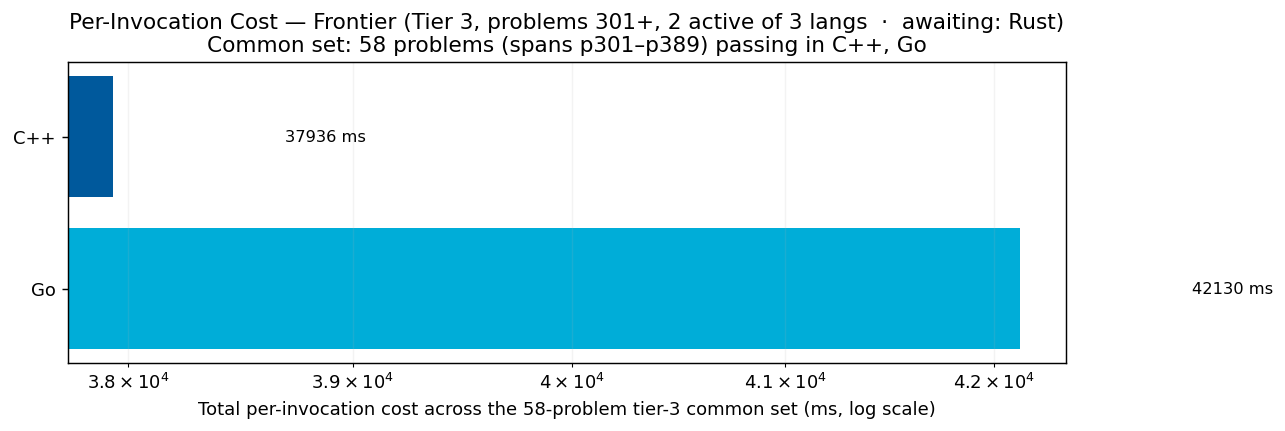
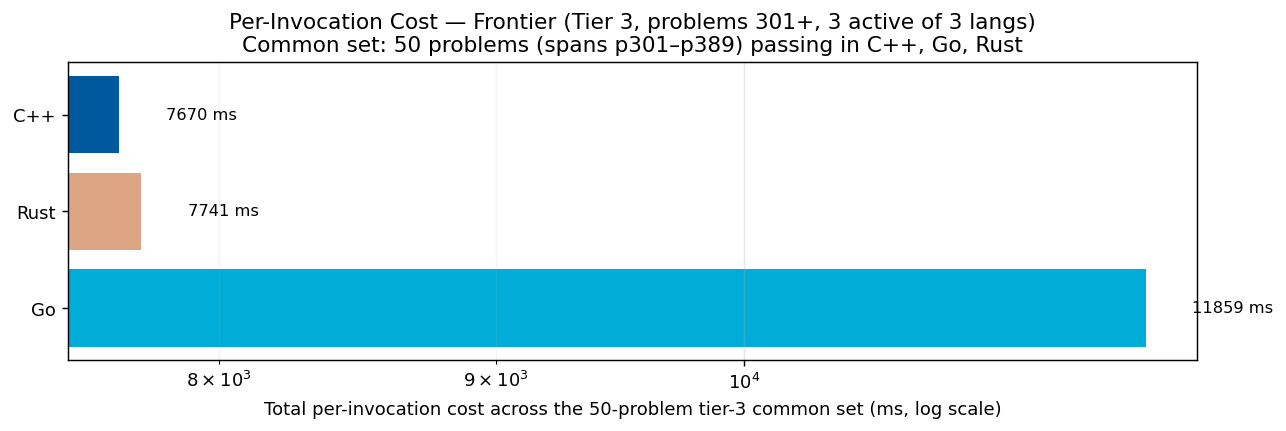
tier-3 rust batch B7: +5 cells (p319/322/348/365/381); 3-way verified; rust ~49 cells in 301-400

diff --git a/RESULTS.md b/RESULTS.md
@@ -1,6 +1,6 @@
 # Project Euler — Cross-Language Benchmarks
 
-> **Scope: 3100 in-scope cells across 500 problems × tiered languages — 2607 measured (84.1% coverage).**
+> **Scope: 3100 in-scope cells across 500 problems × tiered languages — 2612 measured (84.3% coverage).**
 > The cross-language ranking below is computed over the **200-problem common set** (problems in 1-200 where every language has a passing measurement) — the apples-to-apples Foundation comparison surface.  Per-tier rankings and coverage detail appear further below.
 > Growing carefully — each new problem and language is audited for state-leak
 > safety, verified for answer correctness, and added only when it cleanly fits the
@@ -68,16 +68,15 @@ Same scatter as the Foundation chart, restricted to the tier-2 active languages 
 
 The frontier verification trio — C++, Go, Rust — on problems above 300. 3-way cross-language agreement is the verification protocol (strictly stronger than 2-way; see JOURNEY.md "Tier Reframing" episode for the p254 lesson that motivated it). Python and Zig are explicitly out of this tier — python's wall cost makes it impractical at level 5+, and zig's role caps at Tier 2.
 
-### Per-Invocation Cost (Common Set, 58 of ≤200 problems in scope)
-
-_Common set computed over the **2 active** tier-3 langs_ _(C++, Go);_ _awaiting: Rust (below 50% coverage threshold). Common set will tighten once awaited langs reach majority coverage in tier 3._
+### Per-Invocation Cost (Common Set, 50 of ≤200 problems in scope)
 
 ![Per-Invocation Cost — Tier 3](charts/per_iter_total_tier3.png)
 
-| Rank | Language | Total (58-problem common set) | Lines of code | vs Fastest |
+| Rank | Language | Total (50-problem common set) | Lines of code | vs Fastest |
 |------|----------|--------------------:|--------------:|-----------:|
-| 1 | **C++** | 37.94 s | 6,448 | 1.00× |
-| 2 | **Go** | 42.13 s | 6,542 | 1.11× |
+| 1 | **C++** | 7.67 s | 5,385 | 1.00× |
+| 2 | **Rust** | 7.74 s | 5,295 | 1.01× |
+| 3 | **Go** | 11.86 s | 5,530 | 1.55× |
 
 ### Speed vs Code Size
 

diff --git a/per_problem/per_problem_301-400.md b/per_problem/per_problem_301-400.md
@@ -25,10 +25,10 @@ column per language in tier-1 display order (native → managed → interpreted)
 | **p316** | 53.89 ms | 25.28 ms | 107.20 ms |
 | **p317** | 83 ns | 42 ns | 1.2 µs |
 | **p318** | 276.5 µs | 206.5 µs | 370.1 µs |
-| **p319** | 273.69 ms | — | 801.20 ms |
+| **p319** | 273.69 ms | 210.80 ms | 801.20 ms |
 | **p320** | — | — | — |
 | **p321** | 2.8 µs | 1.1 µs | 9.5 µs |
-| **p322** | 401.50 ms | — | 876.06 ms |
+| **p322** | 401.50 ms | 391.15 ms | 876.06 ms |
 | **p323** | 167 ns | 333 ns | 2.3 µs |
 | **p324** | 177.79 ms | 122.52 ms | 71.64 ms |
 | **p325** | 18.5 µs | 10.6 µs | 31.8 µs |
@@ -54,7 +54,7 @@ column per language in tier-1 display order (native → managed → interpreted)
 | **p345** | 1.98 ms | 1.06 ms | 1.68 ms |
 | **p346** | 57.45 ms | 25.34 ms | 69.29 ms |
 | **p347** | 27.61 ms | 14.53 ms | 14.23 ms |
-| **p348** | 184.66 ms | — | 238.41 ms |
+| **p348** | 184.66 ms | 183.91 ms | 238.41 ms |
 | **p349** | 4.04 ms | 5.27 ms | 11.93 ms |
 | **p350** | 8.82 ms | 8.64 ms | 10.10 ms |
 | **p351** | 6.08 ms | 6.08 ms | 9.59 ms |
@@ -71,7 +71,7 @@ column per language in tier-1 display order (native → managed → interpreted)
 | **p362** | — | — | — |
 | **p363** | 9.98 ms | 10.77 ms | 31.24 ms |
 | **p364** | — | — | — |
-| **p365** | 273.65 ms | — | 126.84 ms |
+| **p365** | 273.65 ms | 142.10 ms | 126.84 ms |
 | **p366** | — | — | — |
 | **p367** | — | — | — |
 | **p368** | — | — | — |
@@ -87,7 +87,7 @@ column per language in tier-1 display order (native → managed → interpreted)
 | **p378** | 3.59 s | — | 3.59 s |
 | **p379** | 2.23 s | — | 2.27 s |
 | **p380** | — | — | — |
-| **p381** | 504.11 ms | — | 425.47 ms |
+| **p381** | 504.11 ms | 357.60 ms | 425.47 ms |
 | **p382** | — | — | — |
 | **p383** | — | — | — |
 | **p384** | — | — | — |
